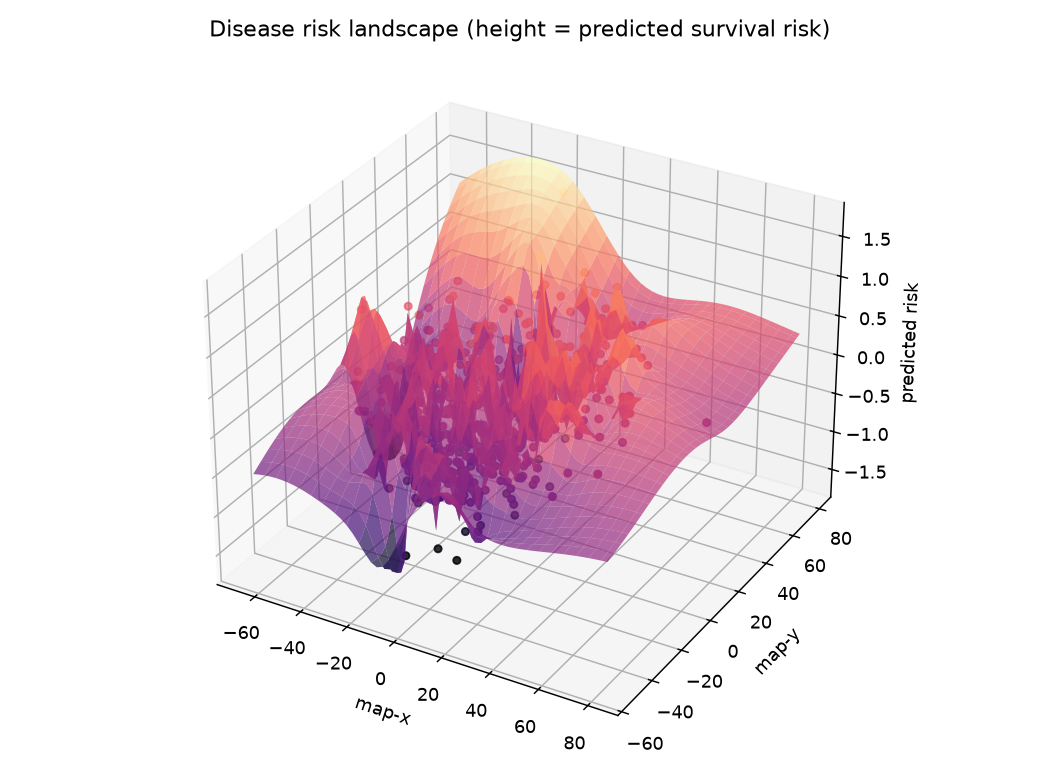
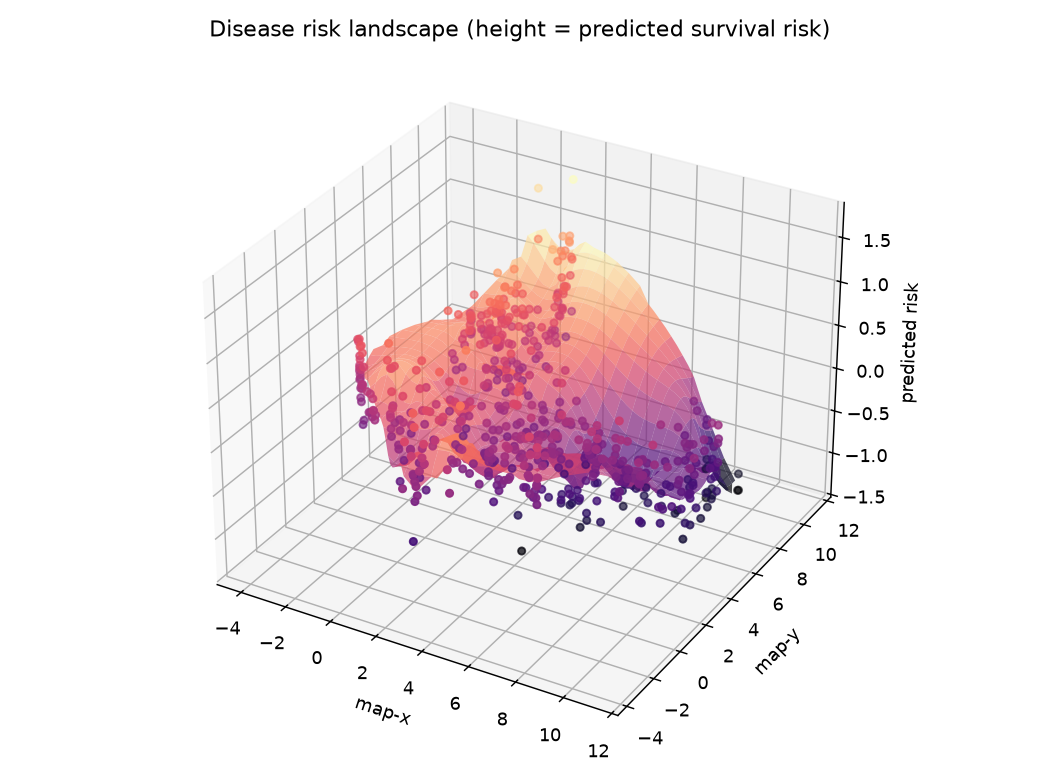
Fix held-out survival reporting + silence concat FutureWarning
Bug 1 (scripts/landscape_check.py): the supervised-map report named a series
as "no survival / held out" if it had ANY NaN survival row, so GSE26712 (~190
usable of 195) was wrongly listed alongside GSE9891. Now count-based and tied
to the exact usable-survival mask the model uses (numeric duration > 0 AND
defined event, mirroring _align_survival): print per-series "N/total
supervised" and flag as held-out ONLY series with ZERO usable samples. The
per-series counts sum to the reported supervised total by construction, so the
report can't drift from the model.

Bug 2 (core/metadata.py): pd.concat over per-dataset frames emitted a pandas
FutureWarning when a frame was empty or all-NA (a dataset with no survival, or
zero samples). _concat_standardized drops empty frames, lets all-NA columns sit
out dtype inference, and reindexes back to the full schema — identical table,
no warning.

Tests: report flags only zero-usable series; partial-NaN series still counts
as contributing with the correct usable count; report mask == _align_survival;
parse_metadata over mixed with/without/empty-survival datasets raises no
FutureWarning and leaves the table unchanged.

diff --git a/tests/test_landscape.py b/tests/test_landscape.py
@@ -2,6 +2,9 @@
 
 from __future__ import annotations
 
+import importlib.util
+from pathlib import Path
+
 import numpy as np
 import pandas as pd
 import pytest
@@ -87,6 +90,25 @@ def _best_axis_corr(coords: pd.DataFrame, target: pd.Series) -> float:
     """Max |corr| of either embedding axis with a per-sample target."""
     t = target.reindex(coords.index).to_numpy()
     return max(abs(np.corrcoef(coords[c].to_numpy(), t)[0, 1]) for c in ["x", "y"])
+
+
+def _load_check_script():
+    """Import scripts/landscape_check.py by path (offline; runs no main)."""
+    path = Path(__file__).resolve().parent.parent / "scripts" / "landscape_check.py"
+    spec = importlib.util.spec_from_file_location("landscape_check", path)
+    module = importlib.util.module_from_spec(spec)
+    spec.loader.exec_module(module)
+    return module
+
+
+def _survival_frame(days, events, datasets):
+    """Build a standardized-style frame + matching batch Series from parallel lists."""
+    idx = pd.Index([f"GSM{i}" for i in range(len(days))], name="sample")
+    std = pd.DataFrame(
+        {"survival_days": days, "event": events, "dataset": datasets}, index=idx
+    )
+    batch = pd.Series(datasets, index=idx)
+    return std, batch
 
 
 # --------------------------------------------------------------------------- #
@@ -260,3 +282,63 @@ def test_landscape_model_produces_surface_for_a_layer():
     assert ZZ.shape == (20, 20)
     with pytest.raises(KeyError):
         landscape.surface("does-not-exist")
+
+
+# --------------------------------------------------------------------------- #
+# landscape_check.py — held-out / supervised reporting (count-based, no drift)
+# --------------------------------------------------------------------------- #
+def test_report_flags_only_series_with_zero_usable_survival():
+    lc = _load_check_script()
+    # A: all four samples usable. B: none (all-NA survival).
+    std, batch = _survival_frame(
+        days=[365.0, 700.0, 500.0, 900.0, np.nan, np.nan],
+        events=[1, 0, 1, 1, np.nan, np.nan],
+        datasets=["A", "A", "A", "A", "B", "B"],
+    )
+    usable, per_series, held_out = lc._survival_supervision(std, batch, std.index)
+
+    assert held_out == ["B"]  # ONLY the series with zero usable survival
+    per = dict((s, (n, tot)) for s, n, tot in per_series)
+    assert per["A"][0] > 0  # A supervised the map
+    assert per["A"] == (4, 4)
+    # Per-series supervised counts sum to the usable-survival mask exactly.
+    assert sum(n for _, n, _ in per_series) == len(usable)
+    assert set(usable) == {"GSM0", "GSM1", "GSM2", "GSM3"}
+
+
+def test_report_counts_partial_nan_series_as_contributing():
+    lc = _load_check_script()
+    # A has partial NaN / a zero-duration row (unusable), but SOME usable samples,
+    # so it must count as contributing — never flagged held-out.
+    std, batch = _survival_frame(
+        days=[365.0, np.nan, 0.0, 800.0, np.nan],
+        events=[1, 1, 1, 0, np.nan],
+        datasets=["A", "A", "A", "A", "B"],
+    )
+    usable, per_series, held_out = lc._survival_supervision(std, batch, std.index)
+
+    per = dict((s, (n, tot)) for s, n, tot in per_series)
+    assert "A" not in held_out  # partial NaN != held out
+    assert per["A"] == (2, 4)  # GSM0 + GSM3 usable; NaN-day and 0-day excluded
+    assert held_out == ["B"]  # B is the only zero-usable series
+    assert sum(n for _, n, _ in per_series) == len(usable) == 2
+
+
+def test_usable_survival_matches_align_survival_criterion():
+    # The report's mask must equal the samples the risk model actually fits.
+    from core.landscape import _align_survival
+
+    lc = _load_check_script()
+    std, _ = _survival_frame(
+        days=[365.0, np.nan, 0.0, 800.0],
+        events=[1, 1, 1, 0],
+        datasets=["A", "A", "A", "A"],
+    )
+    matrix = pd.DataFrame(
+        np.random.default_rng(0).normal(size=(10, 4)),
+        index=[f"g{i}" for i in range(10)],
+        columns=std.index,
+    )
+    report_usable = set(lc._usable_survival(std, matrix.columns))
+    expr, _, _ = _align_survival(matrix, std[["survival_days", "event"]])
+    assert report_usable == set(expr.index)

diff --git a/scripts/landscape_check.py b/scripts/landscape_check.py
@@ -41,6 +41,45 @@ OUTPUT_DIR = Path("outputs")
 GATE = 0.60
 
 
+def _usable_survival(standardized, sample_ids) -> list[str]:
+    """GSMs (within ``sample_ids``) with usable survival for the risk model.
+
+    Mirrors ``core.landscape._align_survival`` EXACTLY — numeric ``survival_days``
+    > 0 and a defined numeric ``event`` — so the reported supervised set matches
+    the samples ``fit_risk``/``cv_cindex`` actually use and can't drift.
+    """
+    import pandas as pd  # lazy: keep script import cheap
+
+    shared = [g for g in sample_ids if g in standardized.index]
+    dur = pd.to_numeric(standardized.loc[shared, "survival_days"], errors="coerce")
+    evt = pd.to_numeric(standardized.loc[shared, "event"], errors="coerce")
+    keep = dur.notna() & evt.notna() & (dur > 0)
+    return [g for g, k in zip(shared, keep) if k]
+
+
+def _survival_supervision(standardized, batch, sample_ids):
+    """Break the supervised set down by series for an honest report.
+
+    Returns ``(usable_gsm, per_series, held_out)`` where ``per_series`` is a list
+    of ``(series, n_supervised, n_total)`` and ``held_out`` names the series with
+    ZERO usable-survival samples. The per-series ``n_supervised`` counts sum to
+    ``len(usable_gsm)`` by construction, so a series with some-but-not-all NaN
+    survival is counted as contributing, never flagged held-out.
+    """
+    sample_ids = list(sample_ids)
+    usable = _usable_survival(standardized, sample_ids)
+    usable_set = set(usable)
+    labels = batch.reindex(sample_ids)
+    per_series: list[tuple[str, int, int]] = []
+    held_out: list[str] = []
+    for series, members in labels.groupby(labels):
+        n_sup = sum(1 for g in members.index if g in usable_set)
+        per_series.append((str(series), n_sup, len(members)))
+        if n_sup == 0:
+            held_out.append(str(series))
+    return usable, per_series, sorted(held_out)
+
+
 def _load_dotenv() -> None:
     env_path = Path(".env")
     if not env_path.exists():
@@ -101,11 +140,14 @@ def main() -> int:
         print("ANTHROPIC_API_KEY not set — cannot standardize survival. Aborting.")
         return 2
     mapping = parse_metadata(raw_meta)
-    survival = mapping.standardized[["survival_days", "event"]].dropna()
-    survival = survival[survival.index.isin(substrate.columns)]
-    print(f"samples with usable survival: {survival.shape[0]}")
+    # ONE usable-survival mask, identical to the criterion fit_risk/cv_cindex
+    # apply (numeric duration > 0 AND defined event), so the report below can't
+    # drift from the samples the model actually uses.
+    usable_gsm = _usable_survival(mapping.standardized, substrate.columns)
+    survival = mapping.standardized.loc[usable_gsm, ["survival_days", "event"]]
+    print(f"samples with usable survival: {len(usable_gsm)}")
 
-    if survival.shape[0] < 10:
+    if len(usable_gsm) < 10:
         print("Too few survival samples to validate a risk model — stopping.")
         return 1
 
@@ -115,23 +157,25 @@ def main() -> int:
     model = fit_risk(substrate, survival)
     risk = predict_risk(model, substrate)
 
-    # Which samples supervised the map vs. were only projected onto it.
-    supervised_gsm = [g for g in survival.index if g in substrate.columns]
-    n_sup = len(supervised_gsm)
+    # Which samples supervised the map vs. were only projected onto it. Uses the
+    # SAME usable-survival set as the model — no per-series "has any NaN" test.
+    n_sup = len(usable_gsm)
     n_unlabeled = substrate.shape[1] - n_sup
     print(f"\nembedding: {args.embed}")
     if args.embed == "supervised":
+        _, per_series, held_out = _survival_supervision(
+            mapping.standardized, batch, substrate.columns
+        )
         print(
             f"  {n_sup} samples supervised the map; {n_unlabeled} were projected "
             f"by expression structure only."
         )
-        unlabeled_series = sorted(
-            set(batch.reindex([g for g in substrate.columns if g not in set(supervised_gsm)]).dropna())
-        )
-        if unlabeled_series:
+        for series, n_series_sup, n_total in per_series:
+            print(f"    {series}: {n_series_sup}/{n_total} supervised")
+        if held_out:
             print(
-                f"  series without survival (NOT used to supervise, placement tests "
-                f"generalization): {', '.join(unlabeled_series)}"
+                f"  held out — no usable survival, NOT used to supervise (placement "
+                f"tests generalization): {', '.join(held_out)}"
             )
 
     print(f"\ncross-validated C-index: {cindex:.3f}")

diff --git a/tests/test_metadata.py b/tests/test_metadata.py
@@ -173,6 +173,36 @@ def test_parse_metadata_one_llm_call_per_dataset(tmp_path):
     assert result.standardized["survival_days"].max() == pytest.approx(2 * 365.25)
 
 
+def test_parse_metadata_mixed_survival_no_futurewarning(tmp_path):
+    # A mix of datasets — one WITH survival, one WITHOUT (all-NA survival cols),
+    # one with zero samples (empty frame) — must not trip pandas' concat
+    # FutureWarning about empty/all-NA entries, and must leave the table unchanged.
+    import warnings
+
+    raw_full = _raw(1)  # has char::os_years + char::status -> real survival
+    raw_nosurv = _raw(2).drop(columns=["char::os_years", "char::status"])  # all-NA survival
+    raw_empty = _raw(3).iloc[0:0]  # zero samples -> empty per-dataset frame
+    llm = CountingLLM(CANNED_SPEC)
+
+    with warnings.catch_warnings():
+        warnings.simplefilter("error", FutureWarning)  # any FutureWarning -> failure
+        result = parse_metadata(
+            {"GSE1": raw_full, "GSE2": raw_nosurv, "GSE3": raw_empty},
+            llm=llm,
+            cache_dir=str(tmp_path),
+        )
+
+    # Behavior unchanged: full schema, rows = 3 + 3 + 0, values intact.
+    assert list(result.standardized.columns) == [*TARGET_SCHEMA, "dataset"]
+    assert result.standardized.shape[0] == 6
+    assert set(result.standardized["dataset"]) == {"GSE1", "GSE2"}
+    assert result.standardized.loc["GSM11", "survival_days"] == pytest.approx(2 * 365.25)
+    # The no-survival dataset keeps its rows but has all-NA survival.
+    g2 = result.standardized[result.standardized["dataset"] == "GSE2"]
+    assert g2.shape[0] == 3
+    assert g2["survival_days"].isna().all() and g2["event"].isna().all()
+
+
 def test_build_mapping_spec_survives_json_fences(tmp_path):
     llm = CountingLLM(CANNED_SPEC, fence=True)  # wraps reply in ```json fences
     summary = build_dataset_summary(_raw(), "GSE1")

diff --git a/core/metadata.py b/core/metadata.py
@@ -216,11 +216,28 @@ def parse_metadata(
         out_specs[accession] = spec
         frames.append(apply_mapping(raw_df, spec))
 
-    if frames:
-        standardized = pd.concat(frames)
-    else:
-        standardized = pd.DataFrame(columns=[*TARGET_SCHEMA, "dataset"])
+    standardized = _concat_standardized(frames)
     return MappingResult(standardized=standardized, specs=out_specs, flags=[])
+
+
+_FULL_COLUMNS: tuple[str, ...] = (*TARGET_SCHEMA, "dataset")
+
+
+def _concat_standardized(frames: list[pd.DataFrame]) -> pd.DataFrame:
+    """Row-concatenate per-dataset frames onto the full schema, warning-free.
+
+    ``pd.concat`` emits a FutureWarning when any frame is empty or all-NA (a
+    dataset with no survival contributes all-NA ``survival_days``/``event``
+    columns; a sample-less dataset an empty frame). We drop empty frames (they add
+    no rows) and let each frame's all-NA columns sit out the dtype inference, then
+    reindex back to the full schema — so the resulting table is identical (same
+    rows, values, NaNs) but the deprecation no longer fires.
+    """
+    frames = [f for f in frames if not f.empty]
+    if not frames:
+        return pd.DataFrame(columns=list(_FULL_COLUMNS))
+    trimmed = [f.dropna(axis=1, how="all") for f in frames]
+    return pd.concat(trimmed).reindex(columns=list(_FULL_COLUMNS))
 
 
 def verify_mapping(